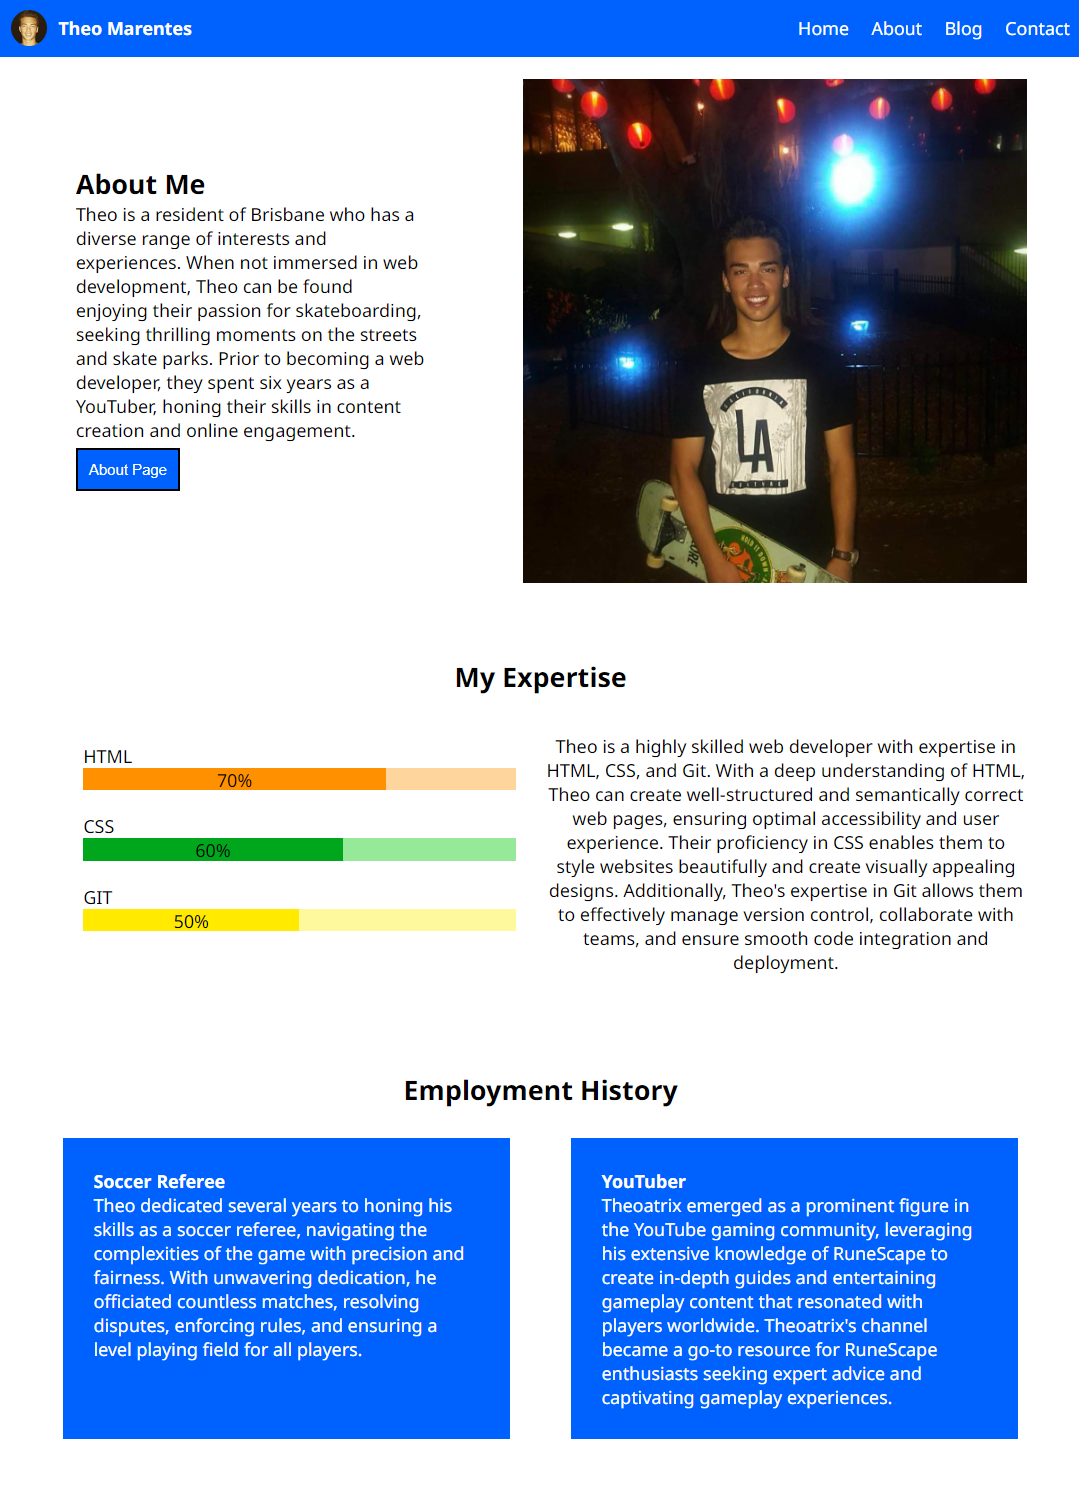
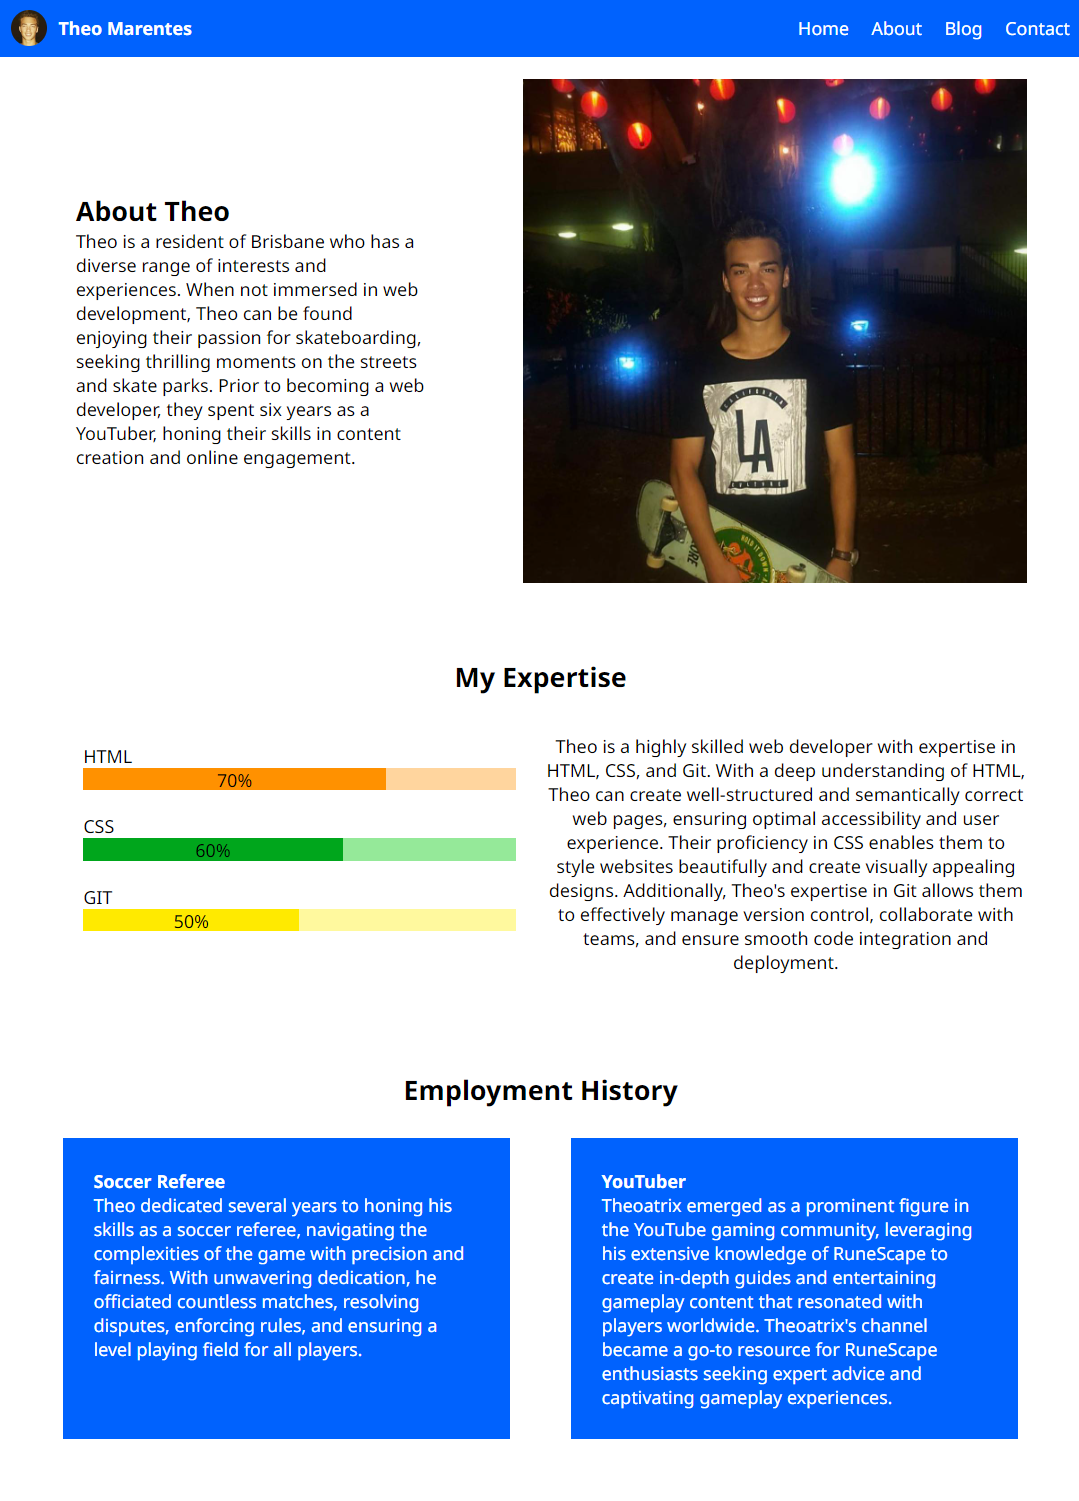
updated readme

diff --git a/pages/about.html b/pages/about.html
@@ -33,9 +33,8 @@
         <!-- about me section -->
         <div class="about-section">
             <div class="about-text">
-                <h2>About Me</h2>
+                <h2>About Theo</h2>
                 <p>Theo is a resident of Brisbane who has a diverse range of interests and experiences. When not immersed in web development, Theo can be found enjoying their passion for skateboarding, seeking thrilling moments on the streets and skate parks. Prior to becoming a web developer, they spent six years as a YouTuber, honing their skills in content creation and online engagement.</p>
-                <button class="about-button">About Page</button>
             </div>
             <img src="../images/about-image.jpg" alt="" class="about-img">
         </div>

diff --git a/index.html b/index.html
@@ -46,7 +46,7 @@
         <!-- about me section -->
         <div class="about-section">
             <div class="about-text">
-                <h2>About Me</h2>
+                <h2>About Theo</h2>
                 <p>Theo is a resident of Brisbane who has a diverse range of interests and experiences. When not immersed in web development, Theo can be found enjoying their passion for skateboarding, seeking thrilling moments on the streets and skate parks. Prior to becoming a web developer, they spent six years as a YouTuber, honing their skills in content creation and online engagement.</p>
                 <button onclick="window.location.href='pages/about.html';" class="about-button">About Page</button>
             </div>

diff --git a/README.md b/README.md
@@ -65,19 +65,19 @@ Home Page (Mobile)
 Home Page (Desktop)
 
 ![Desktop home page](images/readme-screenshot-1.png)
-
+---
 About Page
 
 ![About page](images/readme-screenshot-3.png)
-
+---
 Blog Page
 
 ![About page](images/readme-screenshot-4.png)
-
+---
 Blog Post Page
 
 ![About page](images/readme-screenshot-6.png)
-
+---
 Contact Page
 
 ![About page](images/readme-screenshot-5.png)
